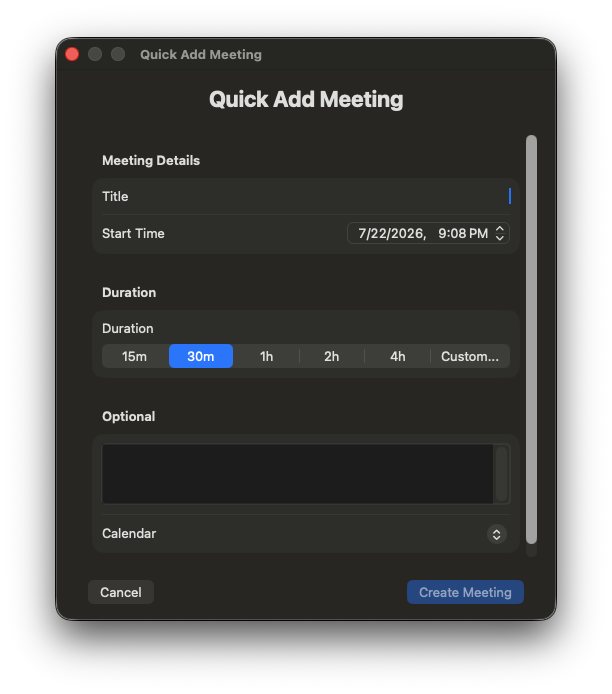
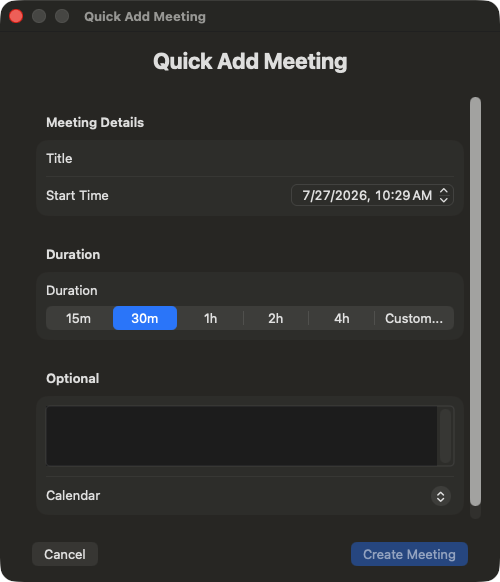
Cleanup + testable scheduling logic: delete dead file, extract & test, refresh screenshots
Dead code: removed MacAlert/MenuBarController.swift (28 lines, zero
references, a leftover second menu-bar implementation still branded
'MacAlert') and its four project.pbxproj references. App builds unchanged.

Testable logic: extracted the three correctness-critical pure functions
that were previously private to AppDelegate and only ever verified with
throwaway scripts, into MeetingLink/AlertScheduling.swift with 12 XCTests:
- alertKey(identifier:start:) - recurring-event occurrence de-duplication
- menuBarString(title:minutesUntilStart:) - menu-bar countdown formatting
- snoozeDelay(chosenMinutes:secondsUntilStart:) - smart snooze cap
AppDelegate now calls these instead of carrying its own copies, so the
shipped code and the tested code can't drift. CI already runs
'swift test --package-path MeetingLink', so these now run on every push
(33 tests total: 21 detector + 12 scheduling).

Screenshots: regenerated all Preferences tabs + Quick Add from the current
build - the old ones predated the appearance picker, launch-at-login,
configurable snooze, and the About privacy section.

Verified: clean app build; 33/33 package tests pass; regenerated
screenshots confirmed non-blank (246 distinct colors).

diff --git a/MacAlert/MacAlertApp.swift b/MacAlert/MacAlertApp.swift
@@ -128,25 +128,11 @@ class AppDelegate: NSObject, NSApplicationDelegate {
         button.title = " " + menuBarString(for: next)
     }
 
-    /// "Standup · 4m" style label, truncating long titles.
+    /// "Standup · 4m" style label. Delegates to the tested AlertScheduling
+    /// logic in the MeetingLink package.
     private func menuBarString(for event: EKEvent) -> String {
         let mins = Int(event.startDate.timeIntervalSinceNow / 60)
-        let countdown: String
-        if mins < 1 {
-            countdown = "now"
-        } else if mins < 60 {
-            countdown = "\(mins)m"
-        } else {
-            let h = mins / 60, m = mins % 60
-            countdown = m == 0 ? "\(h)h" : "\(h)h \(m)m"
-        }
-
-        var title = event.title ?? "Meeting"
-        let maxLen = 24
-        if title.count > maxLen {
-            title = String(title.prefix(maxLen - 1)) + "…"
-        }
-        return "\(title) · \(countdown)"
+        return AlertScheduling.menuBarString(title: event.title, minutesUntilStart: mins)
     }
 
     /// Lets us pop open any window on demand for screenshotting/UX review,
@@ -370,15 +356,11 @@ class AppDelegate: NSObject, NSApplicationDelegate {
         updateMenuBarTitle()
     }
 
-    /// Dedup key for "already alerted this event." Recurring events share one
-    /// eventIdentifier across every occurrence, so identifier alone would
-    /// suppress alerts for a later occurrence of the same series on the same
-    /// day. Combining it with the occurrence's start time keeps occurrences
-    /// distinct while still de-duplicating repeat checks of the same one.
+    /// Dedup key for "already alerted this event occurrence." Delegates to the
+    /// tested AlertScheduling logic (recurring events share one identifier
+    /// across occurrences, so the key combines identifier + start time).
     private func alertKey(for event: EKEvent) -> String {
-        let identifier = event.eventIdentifier ?? "unknown"
-        let start = event.startDate.timeIntervalSince1970
-        return "\(identifier)@\(Int(start))"
+        AlertScheduling.alertKey(identifier: event.eventIdentifier, start: event.startDate)
     }
 
     private var shownAlerts = Set<String>()
@@ -538,22 +520,14 @@ class AppDelegate: NSObject, NSApplicationDelegate {
             closeAlert()
         case .snooze:
             closeAlert()
-            // Re-fire precisely after the snooze interval rather than relying
-            // on the next poll (which can be up to `syncInterval` — as much as
-            // 5 min — away, landing the re-alert well after the meeting starts).
+            // Re-fire precisely after the (smart-capped) snooze interval
+            // rather than relying on the next poll. See AlertScheduling.
             let key = alertKey(for: event)
             shownAlerts.remove(key)
-            // Smart cap: never snooze past the meeting. If the chosen duration
-            // would land at/after the start, snooze only until 1 min before
-            // start instead, so you still get a heads-up.
-            let chosen = TimeInterval(settings.snoozeMinutes * 60)
-            let untilStart = event.startDate.timeIntervalSinceNow
-            let snooze: TimeInterval
-            if untilStart - chosen < 60 {
-                snooze = max(untilStart - 60, 1)  // 1 min before start, min 1s
-            } else {
-                snooze = chosen
-            }
+            let snooze = AlertScheduling.snoozeDelay(
+                chosenMinutes: settings.snoozeMinutes,
+                secondsUntilStart: event.startDate.timeIntervalSinceNow
+            )
             DispatchQueue.main.asyncAfter(deadline: .now() + snooze) { [weak self] in
                 guard let self = self else { return }
                 // Only re-alert if it's still upcoming and not already re-shown.

diff --git a/MeetingLink/Tests/MeetingLinkTests/AlertSchedulingTests.swift b/MeetingLink/Tests/MeetingLinkTests/AlertSchedulingTests.swift
@@ -1,0 +1,77 @@
+import XCTest
+@testable import MeetingLink
+
+final class AlertSchedulingTests: XCTestCase {
+
+    // MARK: alertKey — recurring-event de-duplication
+
+    func testDistinctOccurrencesGetDistinctKeys() {
+        let base = Date(timeIntervalSince1970: 1_700_000_000)
+        let occ1 = AlertScheduling.alertKey(identifier: "RECUR", start: base)
+        let occ2 = AlertScheduling.alertKey(identifier: "RECUR", start: base.addingTimeInterval(5 * 3600))
+        XCTAssertNotEqual(occ1, occ2, "two occurrences of the same series must not collide")
+    }
+
+    func testSameOccurrenceDeduplicates() {
+        let base = Date(timeIntervalSince1970: 1_700_000_000)
+        XCTAssertEqual(
+            AlertScheduling.alertKey(identifier: "RECUR", start: base),
+            AlertScheduling.alertKey(identifier: "RECUR", start: base),
+            "the same occurrence must produce a stable key"
+        )
+    }
+
+    func testNilIdentifierIsSafe() {
+        let key = AlertScheduling.alertKey(identifier: nil, start: Date(timeIntervalSince1970: 1))
+        XCTAssertEqual(key, "unknown@1")
+    }
+
+    // MARK: menuBarString
+
+    func testMenuBarMinutes() {
+        XCTAssertEqual(AlertScheduling.menuBarString(title: "Standup", minutesUntilStart: 4), "Standup · 4m")
+    }
+
+    func testMenuBarNow() {
+        XCTAssertEqual(AlertScheduling.menuBarString(title: "Design Review", minutesUntilStart: 0), "Design Review · now")
+    }
+
+    func testMenuBarHoursExact() {
+        XCTAssertEqual(AlertScheduling.menuBarString(title: "All hands", minutesUntilStart: 120), "All hands · 2h")
+    }
+
+    func testMenuBarHoursAndMinutes() {
+        XCTAssertEqual(AlertScheduling.menuBarString(title: "Planning", minutesUntilStart: 90), "Planning · 1h 30m")
+    }
+
+    func testMenuBarTruncatesLongTitles() {
+        let long = "Quarterly Business Review With The Whole Org"
+        let out = AlertScheduling.menuBarString(title: long, minutesUntilStart: 12)
+        XCTAssertTrue(out.hasSuffix(" · 12m"))
+        // 24-char cap: 23 chars + ellipsis
+        XCTAssertTrue(out.hasPrefix(String(long.prefix(23)) + "…"))
+    }
+
+    func testMenuBarNilTitleFallback() {
+        XCTAssertEqual(AlertScheduling.menuBarString(title: nil, minutesUntilStart: 3), "Meeting · 3m")
+    }
+
+    // MARK: snoozeDelay — smart cap
+
+    func testSnoozeFullWhenPlentyOfTime() {
+        XCTAssertEqual(AlertScheduling.snoozeDelay(chosenMinutes: 2, secondsUntilStart: 600), 120, accuracy: 0.5)
+        XCTAssertEqual(AlertScheduling.snoozeDelay(chosenMinutes: 5, secondsUntilStart: 600), 300, accuracy: 0.5)
+    }
+
+    func testSnoozeCapsToOneMinuteBeforeStart() {
+        // 10 min out, snooze 10 → would overshoot, cap to 9 min (540s)
+        XCTAssertEqual(AlertScheduling.snoozeDelay(chosenMinutes: 10, secondsUntilStart: 600), 540, accuracy: 0.5)
+        // 5 min out, snooze 15 → cap to 4 min (240s)
+        XCTAssertEqual(AlertScheduling.snoozeDelay(chosenMinutes: 15, secondsUntilStart: 300), 240, accuracy: 0.5)
+    }
+
+    func testSnoozeClampsToFloorWhenVeryClose() {
+        // 30s out, snooze 5 → clamp to 1s floor
+        XCTAssertEqual(AlertScheduling.snoozeDelay(chosenMinutes: 5, secondsUntilStart: 30), 1, accuracy: 0.5)
+    }
+}

diff --git a/MeetingLink/Sources/MeetingLink/AlertScheduling.swift b/MeetingLink/Sources/MeetingLink/AlertScheduling.swift
@@ -1,0 +1,50 @@
+import Foundation
+
+/// Pure, testable scheduling/formatting logic extracted from the app so it can
+/// be unit-tested in CI (the app-side methods were verified only with
+/// throwaway scripts). No EventKit or AppKit dependency — callers pass in
+/// plain values.
+public enum AlertScheduling {
+
+    /// Dedup key for "already alerted this event occurrence." Recurring events
+    /// share one identifier across every occurrence, so the identifier alone
+    /// would suppress a later occurrence of the same series on the same day.
+    /// Combining it with the occurrence's start time keeps occurrences
+    /// distinct while still de-duplicating repeat checks of the same one.
+    public static func alertKey(identifier: String?, start: Date) -> String {
+        let id = identifier ?? "unknown"
+        return "\(id)@\(Int(start.timeIntervalSince1970))"
+    }
+
+    /// Menu-bar label like "Standup · 4m". Truncates long titles to keep the
+    /// menu bar from overflowing.
+    public static func menuBarString(title rawTitle: String?, minutesUntilStart mins: Int, maxTitleLength: Int = 24) -> String {
+        let countdown: String
+        if mins < 1 {
+            countdown = "now"
+        } else if mins < 60 {
+            countdown = "\(mins)m"
+        } else {
+            let h = mins / 60, m = mins % 60
+            countdown = m == 0 ? "\(h)h" : "\(h)h \(m)m"
+        }
+
+        var title = rawTitle ?? "Meeting"
+        if title.count > maxTitleLength {
+            title = String(title.prefix(maxTitleLength - 1)) + "…"
+        }
+        return "\(title) · \(countdown)"
+    }
+
+    /// How long to defer a snoozed alert. Normally the chosen duration, but
+    /// capped so snooze never overshoots the meeting: if the chosen duration
+    /// would land within a minute of (or past) the start, re-alert one minute
+    /// before start instead, clamped to a 1-second floor.
+    public static func snoozeDelay(chosenMinutes: Int, secondsUntilStart: TimeInterval) -> TimeInterval {
+        let chosen = TimeInterval(chosenMinutes * 60)
+        if secondsUntilStart - chosen < 60 {
+            return max(secondsUntilStart - 60, 1)
+        }
+        return chosen
+    }
+}
